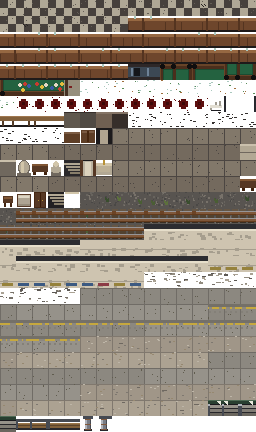
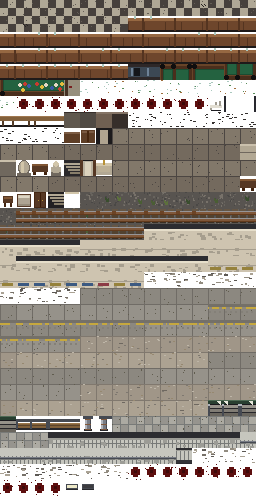
feat(render): paint the station underpass from tiles
The corridor under the tracks: glazed tile over a dark plinth, the strip
lights, the flights at either end. No painter in it leans out of its own
cell, so it is all tiles and no objects, and the stairs come out exactly
right because their handrails and half-arrows are a key on whether the
flight goes on beside them.

5.8% of pixels differ from the picture it replaces, all of it random: the
two patches of tiling cracked off a wall, the grime on the floor, where
the litter fell.

build_station.py keeps its painters, which the atlas uses, and loses the
composition that baked this place. It now bakes only the station itself.

Claude-Session: https://claude.ai/code/session_01CWmC9aBd9DWVEPbuc2s993

diff --git a/lib/core/levels/tutorial/tutorial_level.dart b/lib/core/levels/tutorial/tutorial_level.dart
@@ -186,11 +186,11 @@ final List<Place> tutorialPlaces = layOutPlaces(const <PlaceSpec>[
     legend: stationLegend,
     background: 'assets/levels/station.png',
   ),
+  // Painted from its rows out of the tile atlas.
   PlaceSpec(
     id: PlaceId.stationUnderpass,
     rows: stationUnderpassRows,
     legend: stationLegend,
-    background: 'assets/levels/station_underpass.png',
     indoor: true,
     // Daylight falling down both flights of stairs.
     daylight: 'DU',

diff --git a/tools/build_tile_atlas.py b/tools/build_tile_atlas.py
@@ -261,6 +261,68 @@ def duomo_upper(atlas: Atlas, rng) -> dict:
     }
 
 
+def station_underpass(atlas: Atlas, rng) -> dict:
+    """The rules that paint PlaceId.stationUnderpass: the corridor under
+    the tracks, glazed tile over a dark plinth, lit by strip lights."""
+    floor = atlas.bucket(lambda: cell(
+        lambda d, gx, gy: station.paint_underpass_floor(d, rng, gx, gy)))
+    wall = [
+        atlas.bucket(lambda a=above: tile_of(
+            lambda d: station.paint_underpass_wall(
+                d, rng,
+                Neighbourhood("W", lambda x, y, a=a: "W" if a else "."),
+                0, 0)))
+        for above in (False, True)
+    ]
+    front = atlas.bucket(
+        lambda: tile_of(lambda d: station.paint_underpass_front(d, 0, 0)), 1)
+    litter = atlas.bucket(
+        lambda: tile_of(lambda d: station.paint_litter(d, rng, 0, 0)))
+    blood = atlas.bucket(
+        lambda: tile_of(lambda d: paint_blood(d, rng, 0, 0)))
+    lamps = {
+        glyph: atlas.bucket(lambda dead=dead: tile_of(
+            lambda d: station.paint_lamp(d, 0, 0, dead)), 1)
+        for glyph, dead in (("*", False), ("+", True))
+    }
+
+    def stairs(glyph):
+        """The head of a flight: its two ends carry the handrail and half
+        the arrow, so the key is whether the flight goes on beside it."""
+        out = []
+        for right in (False, True):
+            for left in (False, True):
+                out.append(atlas.bucket(lambda l=left, r=right, g=glyph:
+                    tile_of(lambda d: station.paint_stairs(d, Neighbourhood(
+                        g, lambda x, y, l=l, r=r, g=g: g
+                        if (x == -1 and l) or (x == 1 and r) else "."),
+                        0, 0)), 1))
+        return out
+
+    floored = ".:b*+Z"
+    rules = [
+        rule("ground", floored + "UD", [floor]),
+        rule("structures", "W", wall, [neighbour_key(0, -1, "W")]),
+        rule("structures", "w", [front]),
+        rule("structures", ":", [litter]),
+        rule("structures", "b", [blood]),
+        rule("structures", "*", [lamps["*"]]),
+        rule("structures", "+", [lamps["+"]]),
+    ]
+    for glyph in "UD":
+        rules.append(rule("structures", glyph, stairs(glyph),
+                          [neighbour_key(-1, 0, glyph),
+                           neighbour_key(1, 0, glyph)]))
+    for right in (False, True):
+        edge = atlas.bucket(lambda r=right: tile_of(
+            lambda d: paint_side_edge(d, 0, 0, r)), 1)
+        rules.append(rule("foreground", floored + "UD", [[], edge],
+                          [neighbour_key(1 if right else -1, 0, "x")]))
+    return {"void": "#060608", "voidGlyph": "x", "rules": rules,
+            "objects": []}
+
+
+
 # ------------------------------------------------ the Bar Arcobaleno's art
 # Moved here from tools/build_bar.py, which this atlas replaces: a chequered
 # floor under broken glass and toppled chairs, the counter across the back,
@@ -977,6 +1039,7 @@ PLACES = {
     "duomo": duomo,
     "duomoUpper": duomo_upper,
     "stationFarSide": station_far_side,
+    "stationUnderpass": station_underpass,
 }
 
 
@@ -1039,6 +1102,7 @@ PREVIEW_ROWS = {
     "duomo": "duomo-rows",
     "duomoUpper": "duomo-upper-rows",
     "stationFarSide": "far-platform-rows",
+    "stationUnderpass": "underpass-rows",
 }
 
 

diff --git a/tools/build_station.py b/tools/build_station.py
@@ -33,7 +33,6 @@ from build_street_level import (  # noqa: E402
 )
 
 STATION_OUTPUT = os.path.join("assets", "levels", "station.png")
-UNDERPASS_OUTPUT = os.path.join("assets", "levels", "station_underpass.png")
 
 VOID = (6, 6, 8)
 HALL_A = (172, 162, 146)
@@ -572,31 +571,9 @@ def bake_platform(room: Room, rng, output, wrecked, open_door=False):
     save(image, output)
 
 
-def bake_underpass(room: Room, rng, output):
-    image = Image.new("RGB", (room.width * TILE, room.height * TILE), VOID)
-    d = ImageDraw.Draw(image)
-    for y in range(room.height):
-        for x in range(room.width):
-            if not room.is_wall(x, y) and room.at(x, y) != "x":
-                paint_underpass_floor(d, rng, x, y)
-    for y in range(room.height):
-        for x in range(room.width):
-            glyph = room.at(x, y)
-            px, py = x * TILE, y * TILE
-            if glyph == "W":
-                paint_underpass_wall(d, rng, room, x, y)
-            elif glyph == "w":
-                paint_underpass_front(d, x, y)
-            elif glyph in "UD":
-                paint_stairs(d, room, x, y)
-            elif glyph == ":":
-                paint_litter(d, rng, px, py)
-            elif glyph == "b":
-                paint_blood(d, rng, px, py)
-            elif glyph in "*+":
-                paint_lamp(d, px, py, dead=glyph == "+")
-    paint_side_edges(d, room)
-    save(image, output)
+# The underpass is not baked any more: the game paints it from its rows
+# out of the tile atlas, which still uses the painters above. What is left
+# here bakes the station itself, the one platform not yet converted.
 
 
 def save(image, output):
@@ -608,8 +585,6 @@ def save(image, output):
 def main() -> None:
     bake_platform(Room(read_rows("station-rows")), random.Random(1906),
                   STATION_OUTPUT, wrecked=True)
-    bake_underpass(Room(read_rows("underpass-rows")), random.Random(1931),
-                   UNDERPASS_OUTPUT)
     # The far platform is not baked any more: the game paints it from its
     # rows out of the tile atlas (tools/build_tile_atlas.py), which still
     # uses the painters above. The rest of this file stays for the station

diff --git a/tools/build_levels.py b/tools/build_levels.py
@@ -58,7 +58,7 @@ BAKERS: list[tuple[str, tuple[str, ...]]] = [
     ("build_barracks.py", ("barracks.png",)),
     ("build_mall.py", ("mall_ground.png", "mall_first.png")),
     ("build_church.py", ("church.png",)),
-    ("build_station.py", ("station.png", "station_underpass.png")),
+    ("build_station.py", ("station.png",)),
     ("build_train.py", ("train_interior.png",)),
     ("build_airliner.py", ("airliner_cabin.png", "airliner_roofs.png")),
 ]
